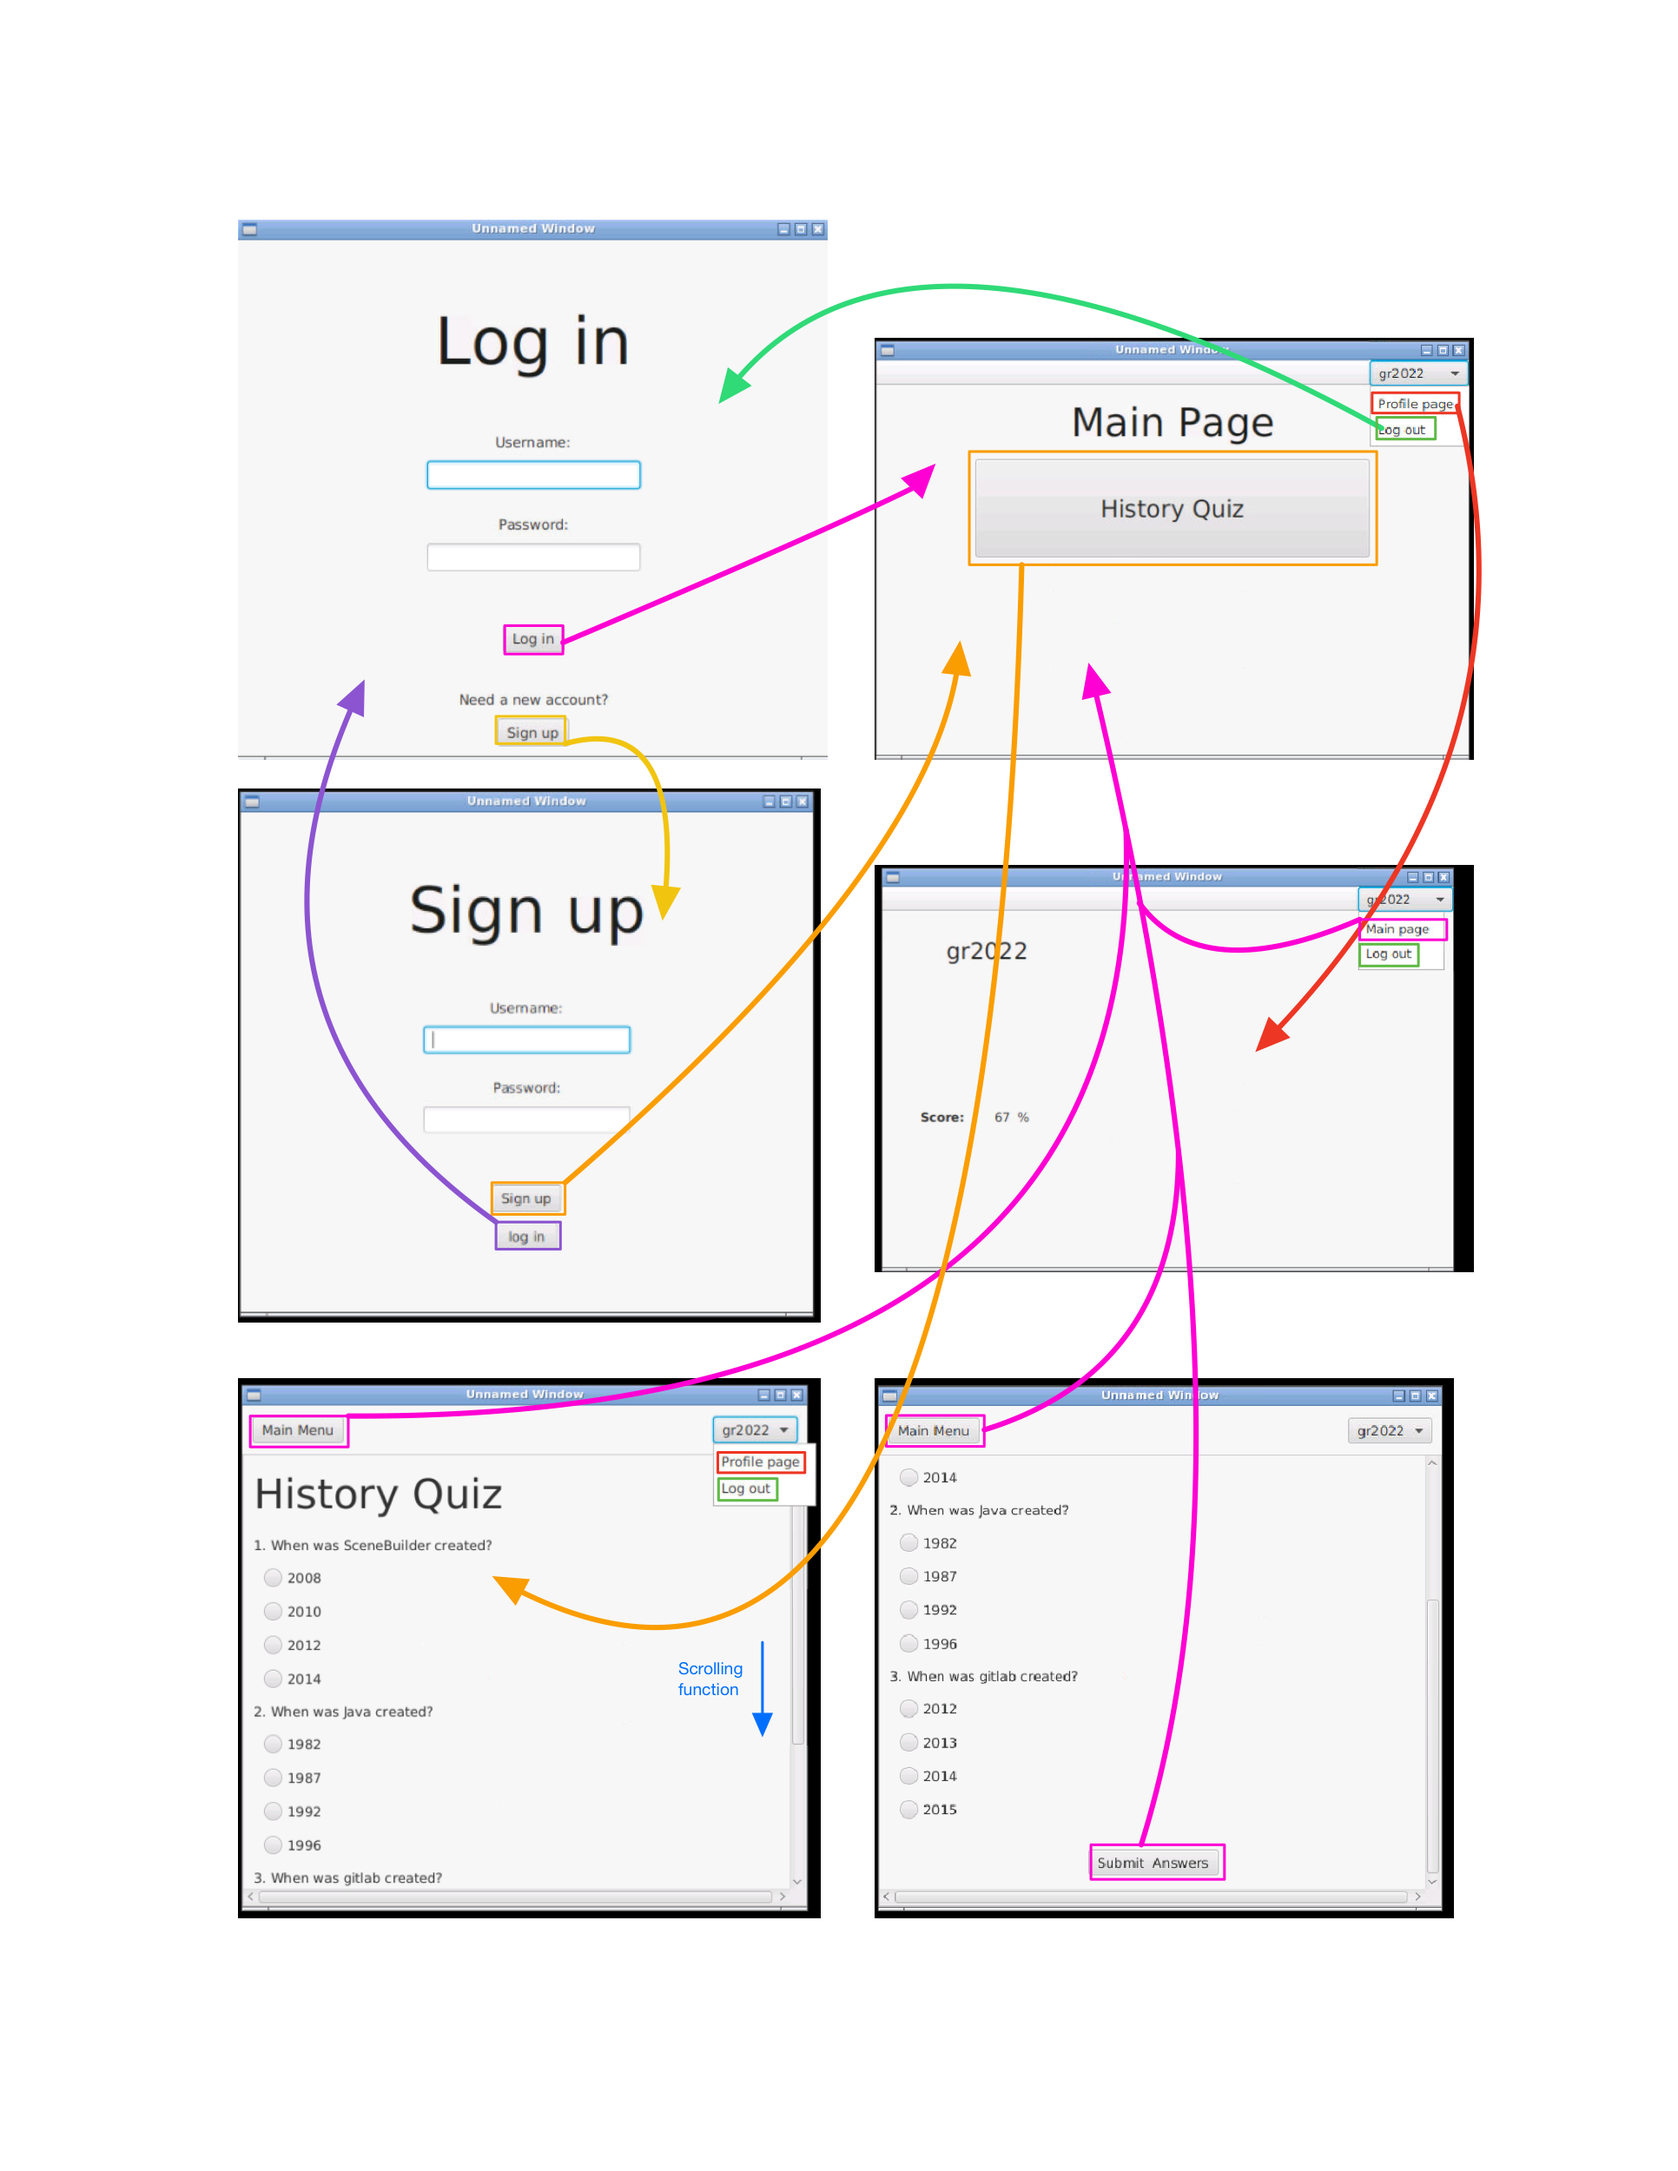
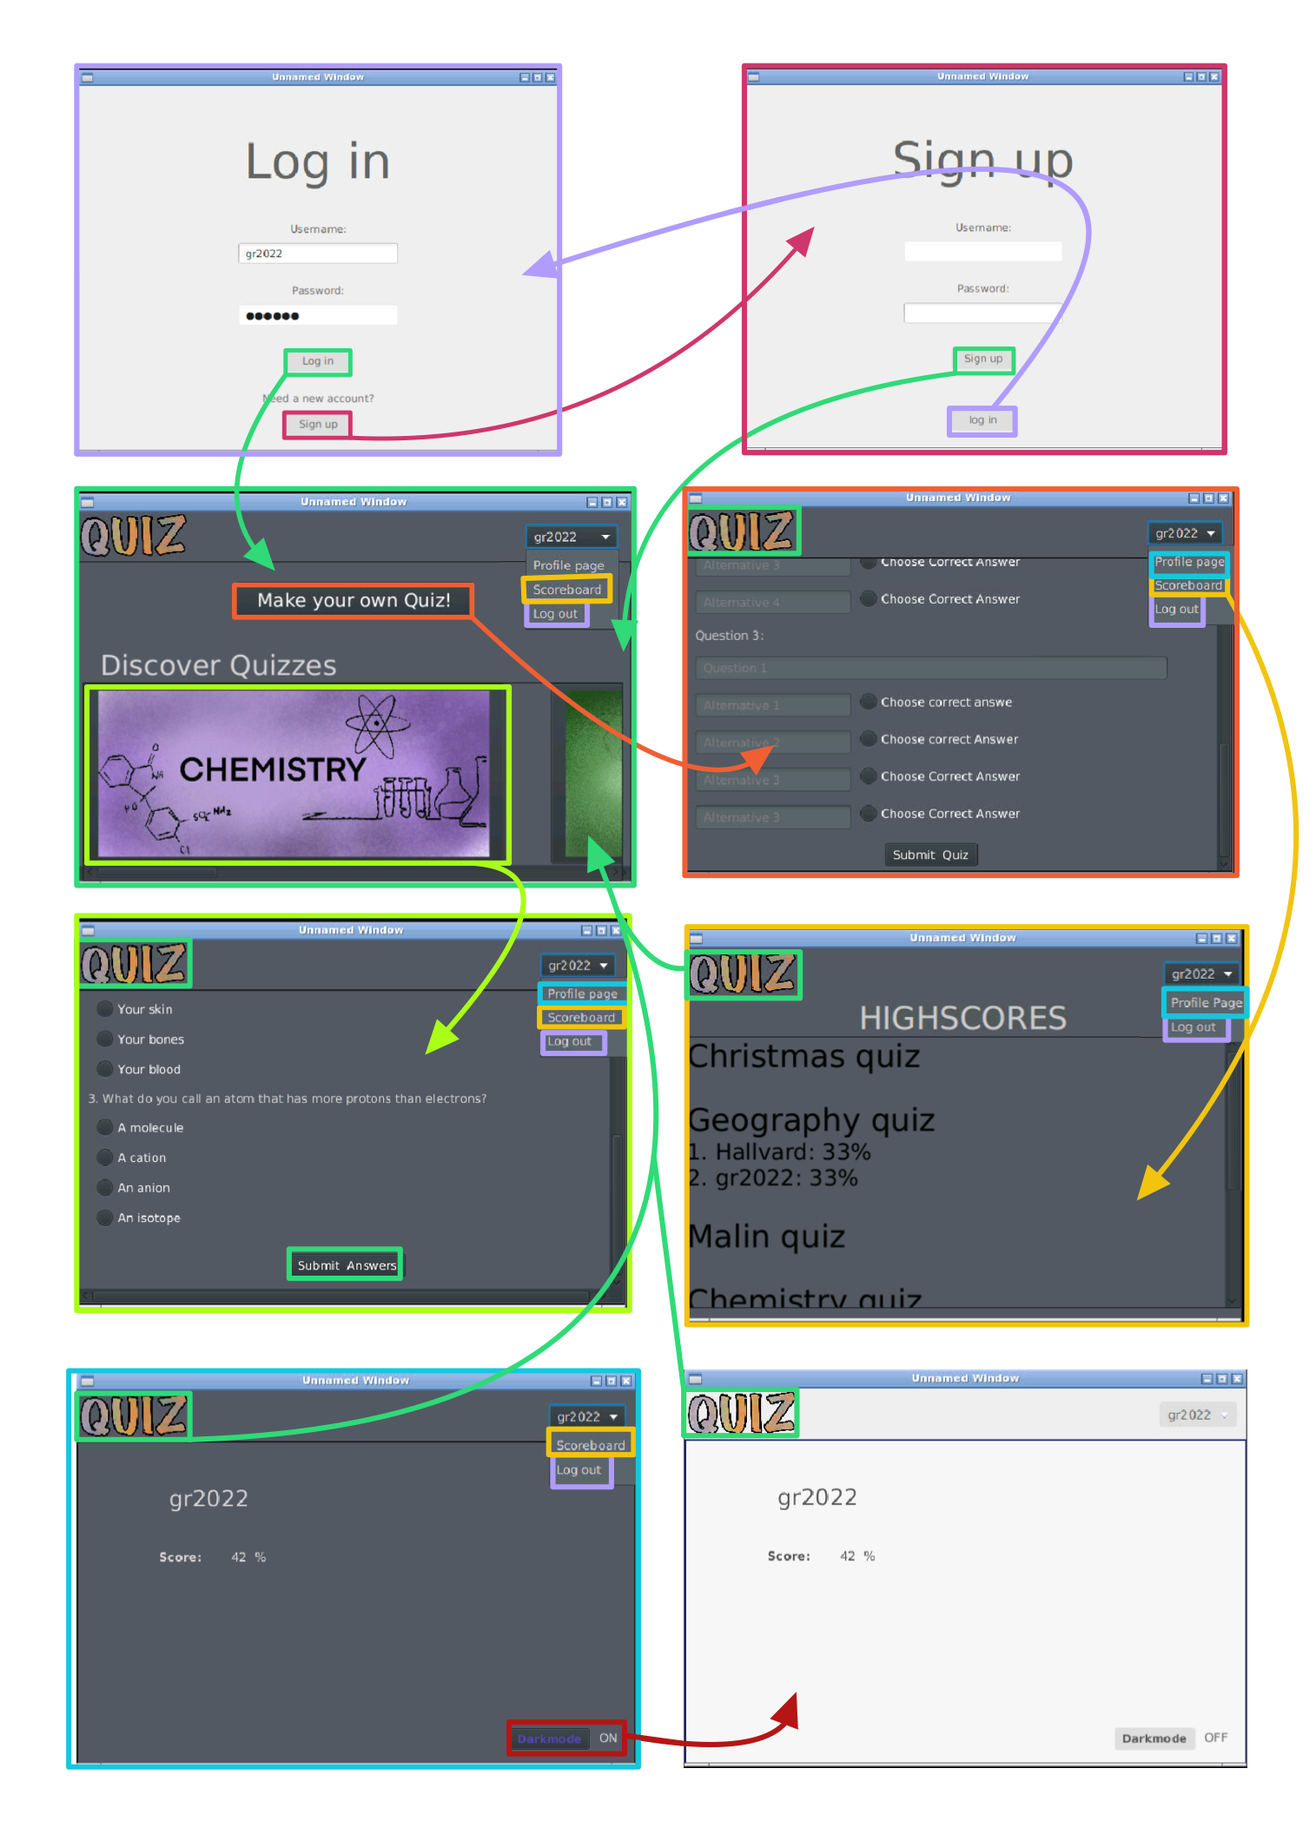
Updated read me by adding new userPlan (#69)

diff --git a/Quiz-app/README.md b/Quiz-app/README.md
@@ -1,8 +1,8 @@
 # quizapp
 
-This project vil contain a quiz app. 
+This project will contain a quiz app. 
 
-Currently the repo contains a working quizapp
+Currently the repo contains a working quizapp.
 
 This repo also contains testing for each layer, and is built with **maven**.
 
@@ -40,29 +40,29 @@ from /workspace/gr2022/Quiz-app:
 **restapi/src/test/java**
 
 
-This is the standard folder structure for projects built with maven
+This is the standard folder structure for projects built with maven.
 
 ## Paths
 
 In this app we use paths to access several different objects, but mostly json objects used to save data.
 
-To access these objects we have used realtive paths, such that the project is compatible with other programs if cloned.
+To access these objects we have used relative paths, such that the project is compatible with other programs if cloned.
 
 
-# backend / frontend
+# Backend / Frontend
 
-The app is currently divided into three parts: Core, fxui with a dependency to core, and restapi, also with a dependency to core
+The app is currently divided into three parts: Core, fxui with a dependency to core, and restapi, also with a dependency to core.
 
-The backend of Quiz-app contains all of restapi, aswell as all of core, bar CryptoUtil.java
+The backend of Quiz-app contains all of restapi, aswell as all of core, with the exception of CryptoUtil.java.
 
-The frontend of Quiz-app contains all of restapi, aswell as all of core, bar the java classes that interact directly with .json files. (Except for when DirectAccess is used in testing)
+The frontend of Quiz-app contains all of restapi, aswell as all of core, bar the java classes that interact directly with .json files (Except for when DirectAccess is used in testing).
 
-To communicate between the two layers, rest api is implemented via Spring-boot
+To communicate between the two layers, rest api is implemented via Spring-boot.
 
 ## UI-layer
 
-Currently, the UI layer conatins the all FXUI-controllers, the java files used to communicate with the rest api, and logic for checking Username/password.
-The UI-layer has a dependencu to core
+Currently, the UI layer contains all the FXUI-controllers, the java files used to communicate with the rest api, and logic for checking Username/password.
+The UI-layer has a dependency to core.
 
 To log in, use the following:
 
@@ -71,17 +71,17 @@ Username: **gr2022**
 Passord **gitlab**
 
 
-## Presistance layer
-In the presistance-layer, all classes and logic connected to saving and reading from files are located.
+## Persistance layer
+All classes and logic connected to saving and reading from files are located in in the persistance-layer.
 
 
-This layer also contains CryptoUtil. This is an encryption class used to ensure safe use of the restAPI. AES encryption is used
+This layer also contains CryptoUtil. This is an encryption class used to ensure safe use of the restAPI. AES encryption is used here.
 
 ## Core
-This layer contains the logic, user class, quiz class and Question Class.
+This layer contains the logic, User class, Quiz class and Question Class.
 
 ## Restapi
-In the restapi part of the repo, all files connected to saving and Spring-boot are located. 
+All files connected to saving and Spring-boot are located in the restapi part of the repo. 
 
 
 ## Plan and functionality
@@ -91,21 +91,19 @@ In the restapi part of the repo, all files connected to saving and Spring-boot a
 ![Image of illustrative plan](../Images/UserPlan.png)
 
 
-This illustrative plan is meant to represent the functunality of our app at its current stage. The colored arrows show how different stages occur as a result of interactions with the visual representations. As an example, with the correct password and username, the user can access the main page via the login button. 
+This illustrative plan is meant to represent the functunality of our app. The colored arrows show how different stages occur as a result of interactions with the visual representations. As an example, with the correct password and username, the user can access the main page via the login button. 
 
 
 ### Diagrams
 
 Class diagram:
-This class diagram illustrates the classes that in our opinions is the most important.
-All the classes in the core is in the diagram. The diagram focuses on giving the person 
-looking at it information about the core functionality.
+This class diagram illustrates the classes that, in our opinion, are the most important.
+All classes located in core are represented by the diagram. The function of the diagram is to provide the reader with relevant information on quiz-app's core functionality.
 
 ![Image of class diagram](../Images/ClassDiagram.png)
 
 Sequence diagram:
-The sequence diagram illustrates an important scenario in this app. It shows when a user
-takes a quiz, and the important calls that happen within the app at this moment. Both
+The sequence diagram illustrates an important scenario of this app. It shows the calls required to take place when a user takes a quiz. Both
 frontend and backend is illustrated.
 
 ![Image of sequence diagram](../Images/SequenceDiagram.png)
@@ -116,9 +114,9 @@ This diagram shows the packages within the app.
 ![Image of package diagram](../Images/PackageDiagram.png)
 
 ## other
-the class CryptoUtil.java uses AES encryption and is from https://howtodoinjava.com/java/java-security/java-aes-encryption-example/
+The class CryptoUtil.java uses AES encryption and is from https://howtodoinjava.com/java/java-security/java-aes-encryption-example/
 
-The CSS Styles have links to the authors in their respective files
+The CSS Styles have links to the authors in their respective files.
 
 
 
